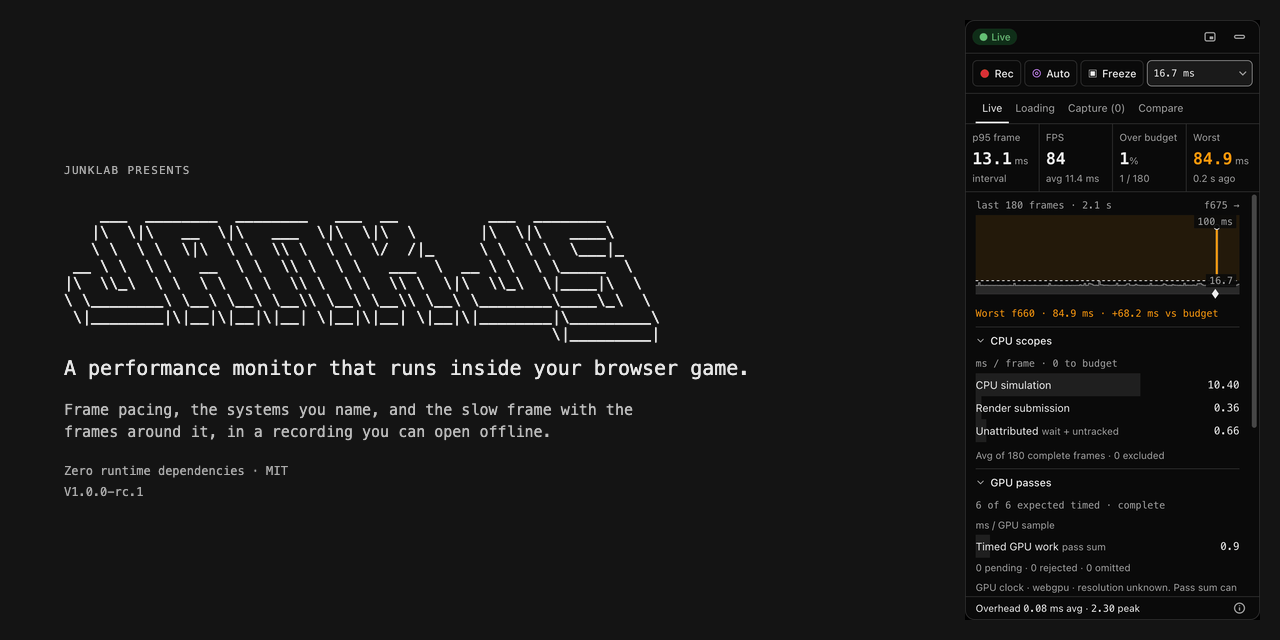
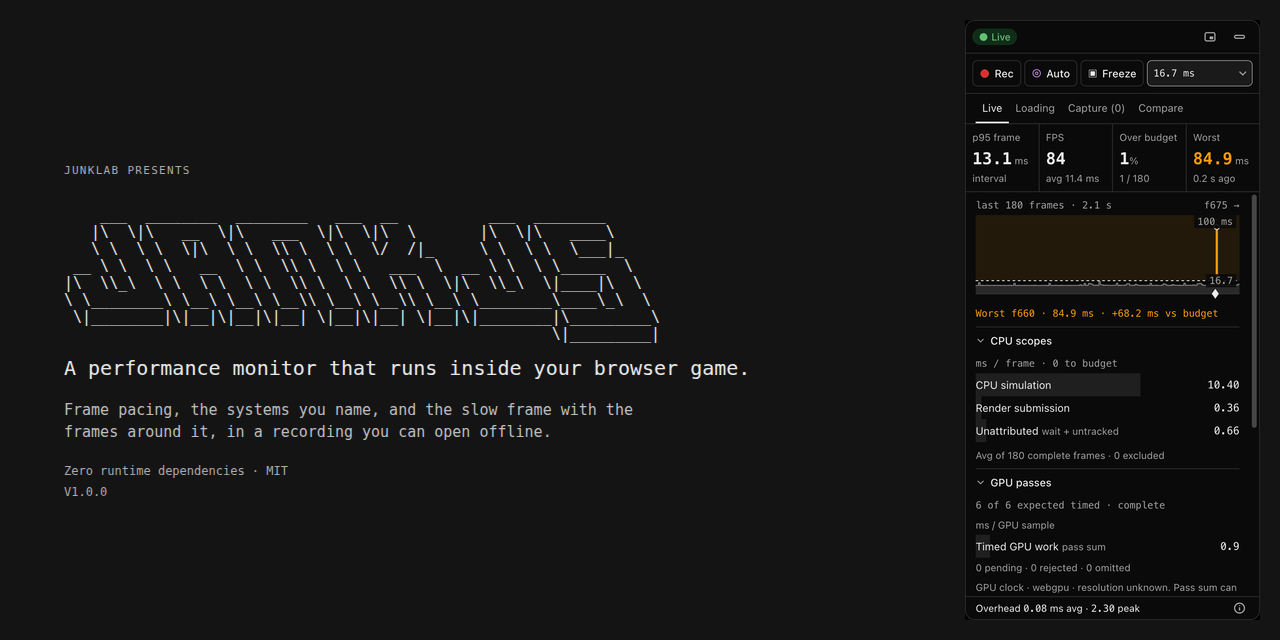
chore(release): v1.0.0

diff --git a/VERSION_HISTORY.md b/VERSION_HISTORY.md
@@ -4,6 +4,8 @@ Automated semantic versions start at 0.1.0. Each merged PR contributes one bump.
 
 <!-- versions -->
 
+- 1.0.0 — major — PR #21: feat!: jank.js 1.0
+
 - 0.3.0 — minor — PR #4: Readme
 
 - 0.2.1 — patch — PR #2: Reduce production bundle size and refresh README artwork
